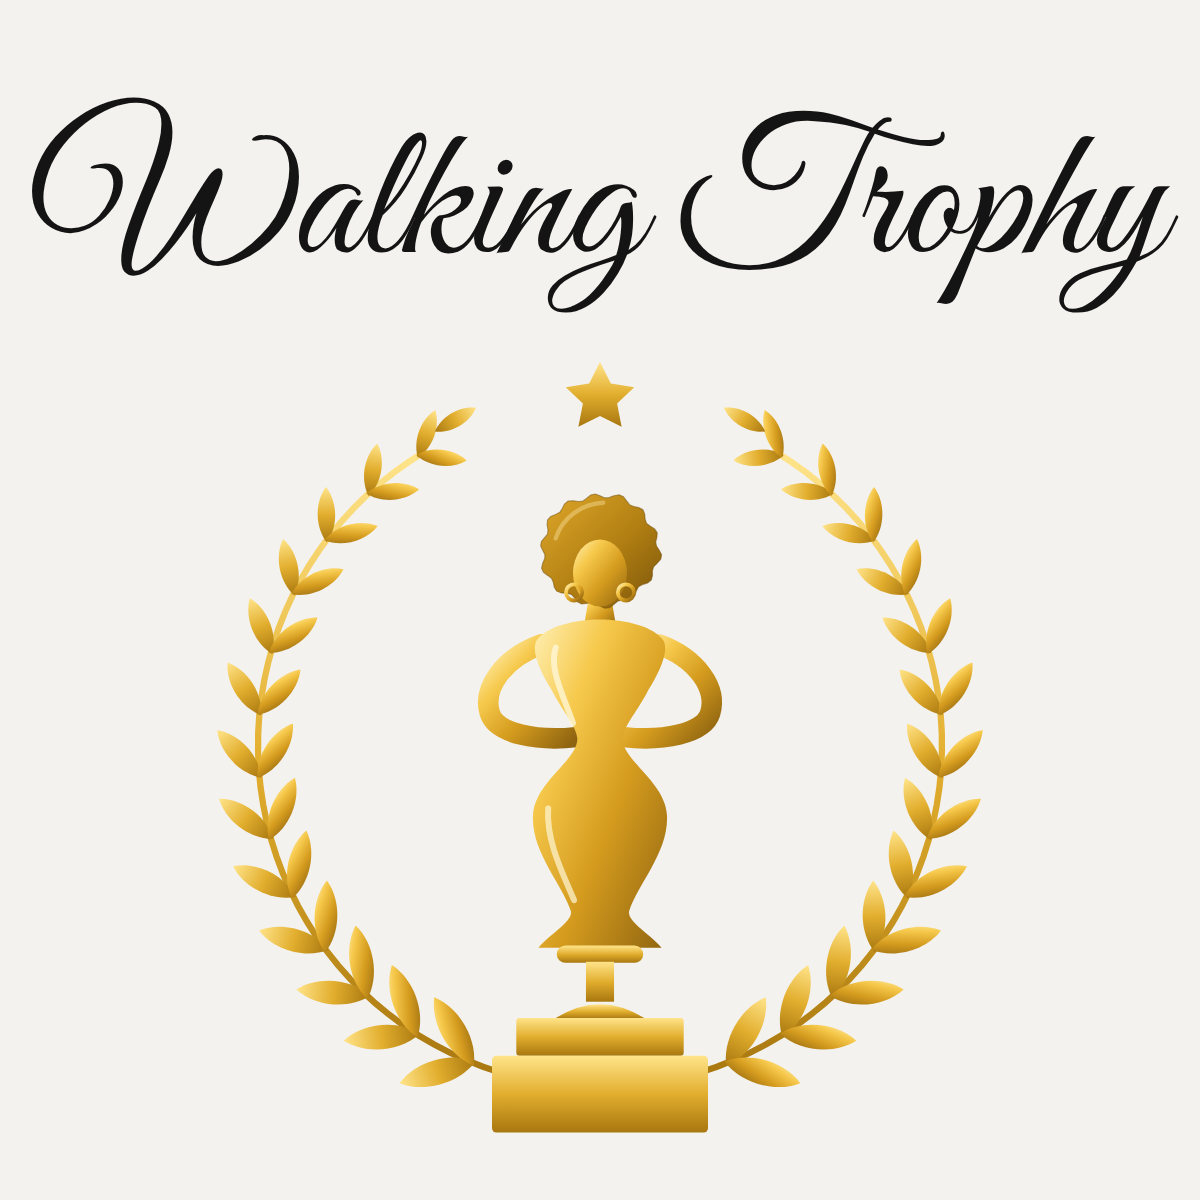
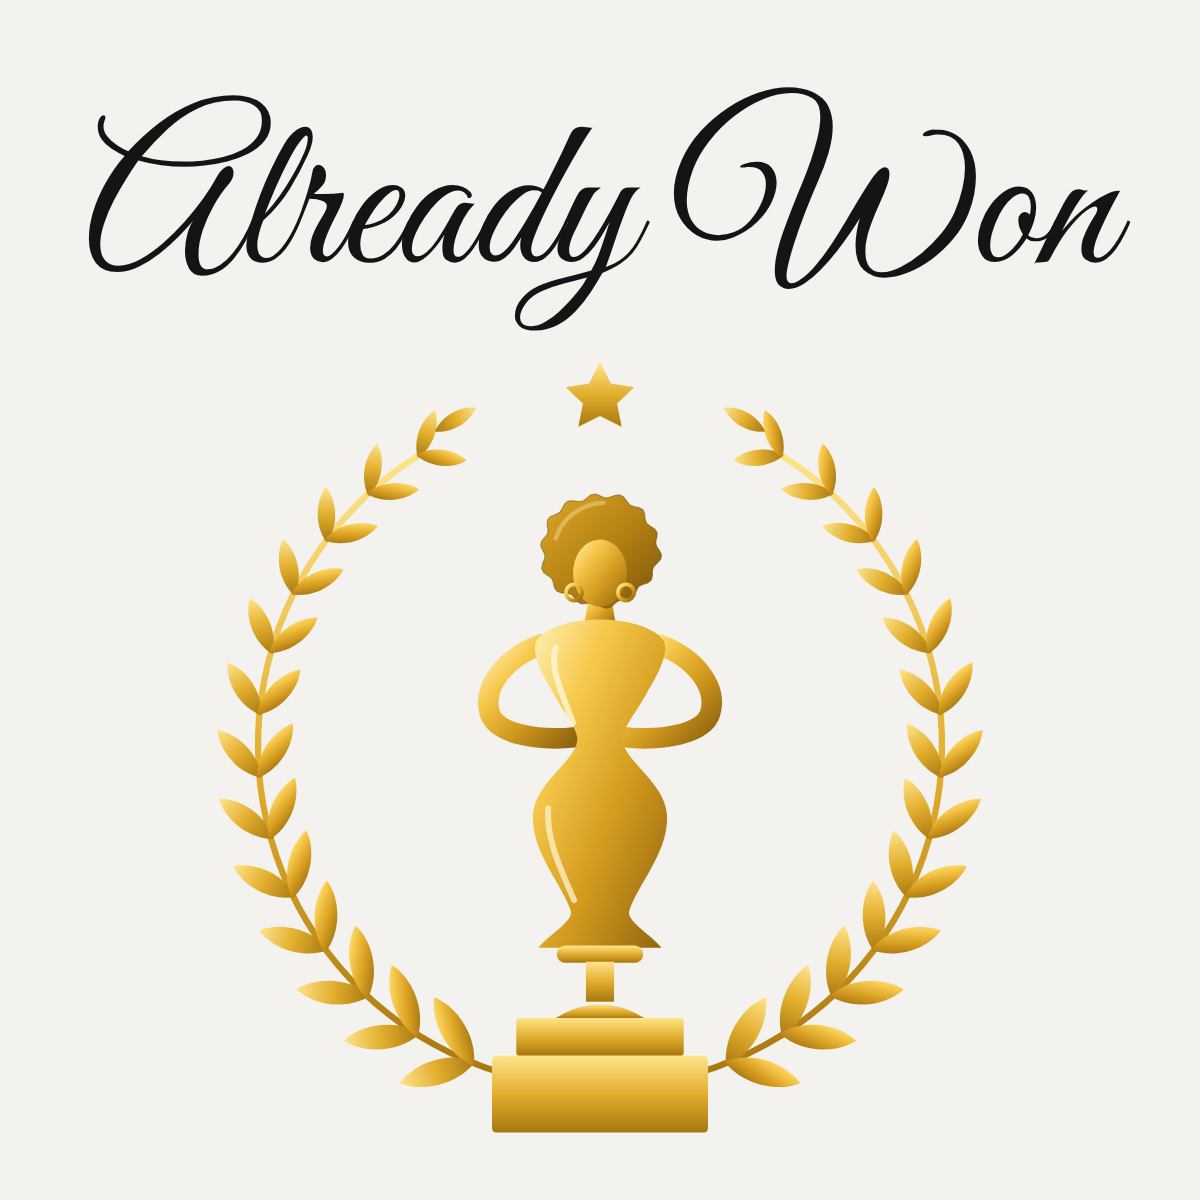
Walking Trophy front: Already Won above the laurel crest
Claude-Session: https://claude.ai/code/session_01Mt1Tg1SJuTeW2M8JbNNqgf

Changed region(s): [[0.0308, 0.0617, 0.9867, 0.2775], [0.1542, 0.0617, 0.2158, 0.0925]]

diff --git a/walking-trophy-tee/tools/build-design.js b/walking-trophy-tee/tools/build-design.js
@@ -77,7 +77,7 @@ const back = (ink, plaqueInk) => `<svg id="s" xmlns="http://www.w3.org/2000/svg"
 </svg>`;
 // FRONT left chest: 4" x 4" @300dpi - script name on top, laurel crest with the trophy beneath it
 const front = (ink, plaqueInk) => `<svg id="s" xmlns="http://www.w3.org/2000/svg" viewBox="0 0 1200 1200"><defs>${GOLD}</defs>
-  <text x="600" y="252" text-anchor="middle" font-family="GV" font-size="190" fill="${ink}">Walking Trophy</text>
+  <text x="600" y="262" text-anchor="middle" font-family="GV" font-size="215" fill="${ink}">Already Won</text>
   <g transform="translate(600 362) scale(0.9) translate(-600 -44)">
    ${laurel(600, 470, 380)}
    <g transform="translate(600 150) scale(0.6) translate(-500 0)">${trophy(plaqueInk, true)}</g>

diff --git a/walking-trophy-tee/README.md b/walking-trophy-tee/README.md
@@ -11,7 +11,7 @@ Blank: Printful women's relaxed t-shirt, Bella+Canvas 6400. Printing: DTG (direc
   - An hourglass figure that becomes the cup, and a gown that narrows into the stem.
 - **Base:** a plain two-tier gold base, with no plaque or text, and gold sparkles around her.
 
-**Front (left chest):** *Walking Trophy* in an elegant script on top, with a gold laurel-wreath crest around the same trophy underneath it and a small star at the top of the wreath.
+**Front (left chest):** *Already Won* in an elegant script on top, with a gold laurel-wreath crest around the same trophy underneath it and a small star at the top of the wreath.
 
 Fonts: Playfair Display and Great Vibes, both SIL Open Font License, free for commercial use.
 
@@ -38,12 +38,12 @@ Fonts: Playfair Display and Great Vibes, both SIL Open Font License, free for co
    - Light files: White, Natural, Soft Cream.
 
 ## Etsy listing copy (draft)
-**Title:** Walking Trophy Shirt, Women's Relaxed Tee, Gold Trophy Graphic, Confidence Shirt, Self Love Gift, Black Woman Empowerment Tee
+**Title:** Walking Trophy Shirt, Already Won Tee, Women's Relaxed Tee, Gold Trophy Graphic, Confidence Shirt, Self Love Gift, Black Woman Empowerment Tee
 
 **Description:**
-She doesn't need an award, she *is* the award. This Walking Trophy tee has a gold trophy on the back shaped like a woman, with her afro, curves and hands on her hips. On the front is a gold laurel crest.
+She doesn't need an award, she *is* the award. This Walking Trophy tee has a gold trophy on the back shaped like a woman, with her afro, curves and hands on her hips. On the front is a gold laurel crest with the words *Already Won*.
 - Bella+Canvas 6400 women's relaxed fit, soft 100% cotton (heathers are cotton blend)
 - Printed front and back
 - Made to order
 
-**Tags (13):** walking trophy, trophy shirt, womens graphic tee, confidence shirt, self love shirt, gift for her, gold trophy tee, empowerment shirt, black woman shirt, birthday gift her, queen shirt, relaxed fit tee, statement tee
+**Tags (13):** walking trophy, already won shirt, womens graphic tee, confidence shirt, self love shirt, gift for her, gold trophy tee, empowerment shirt, black woman shirt, birthday gift her, queen shirt, relaxed fit tee, statement tee
